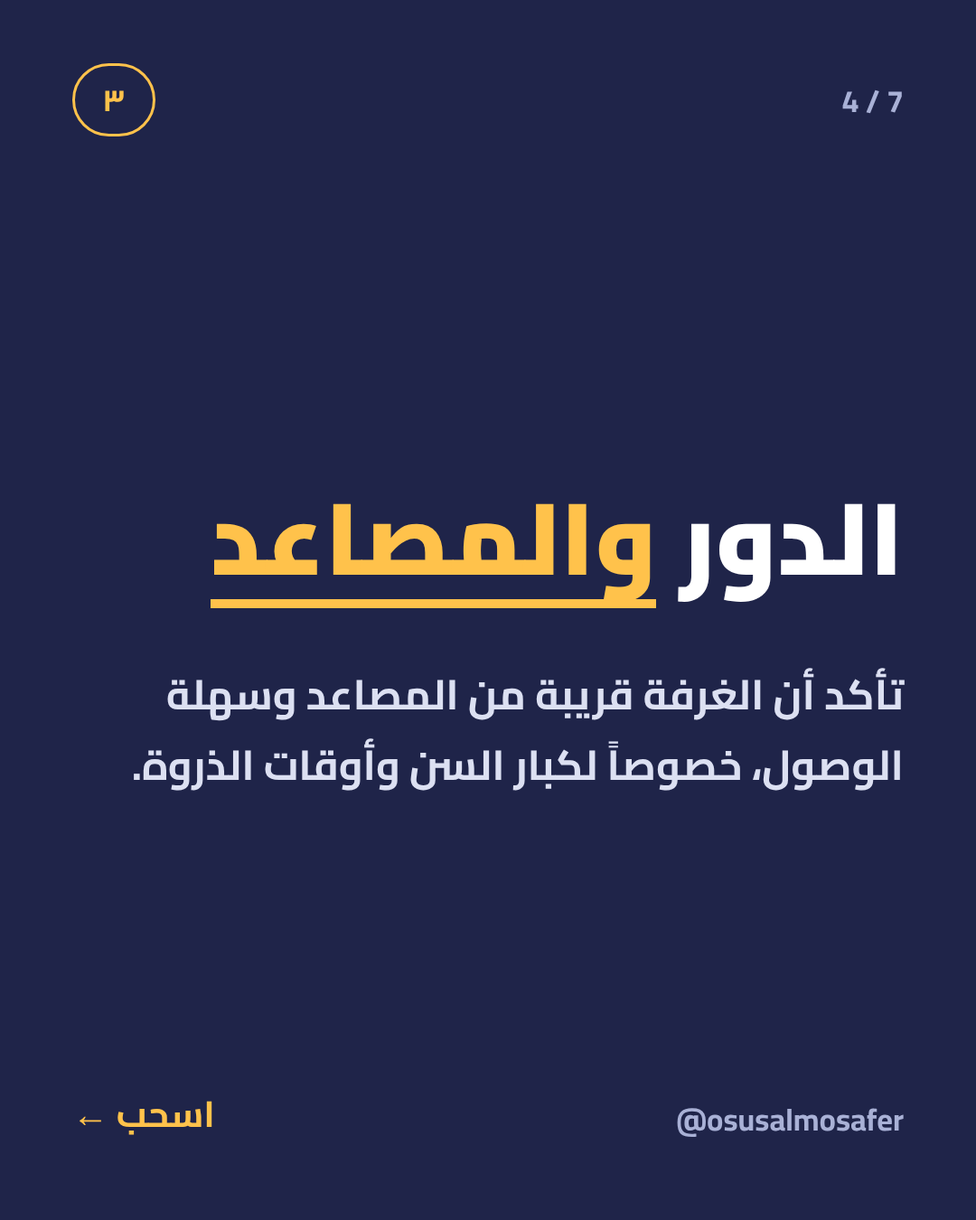
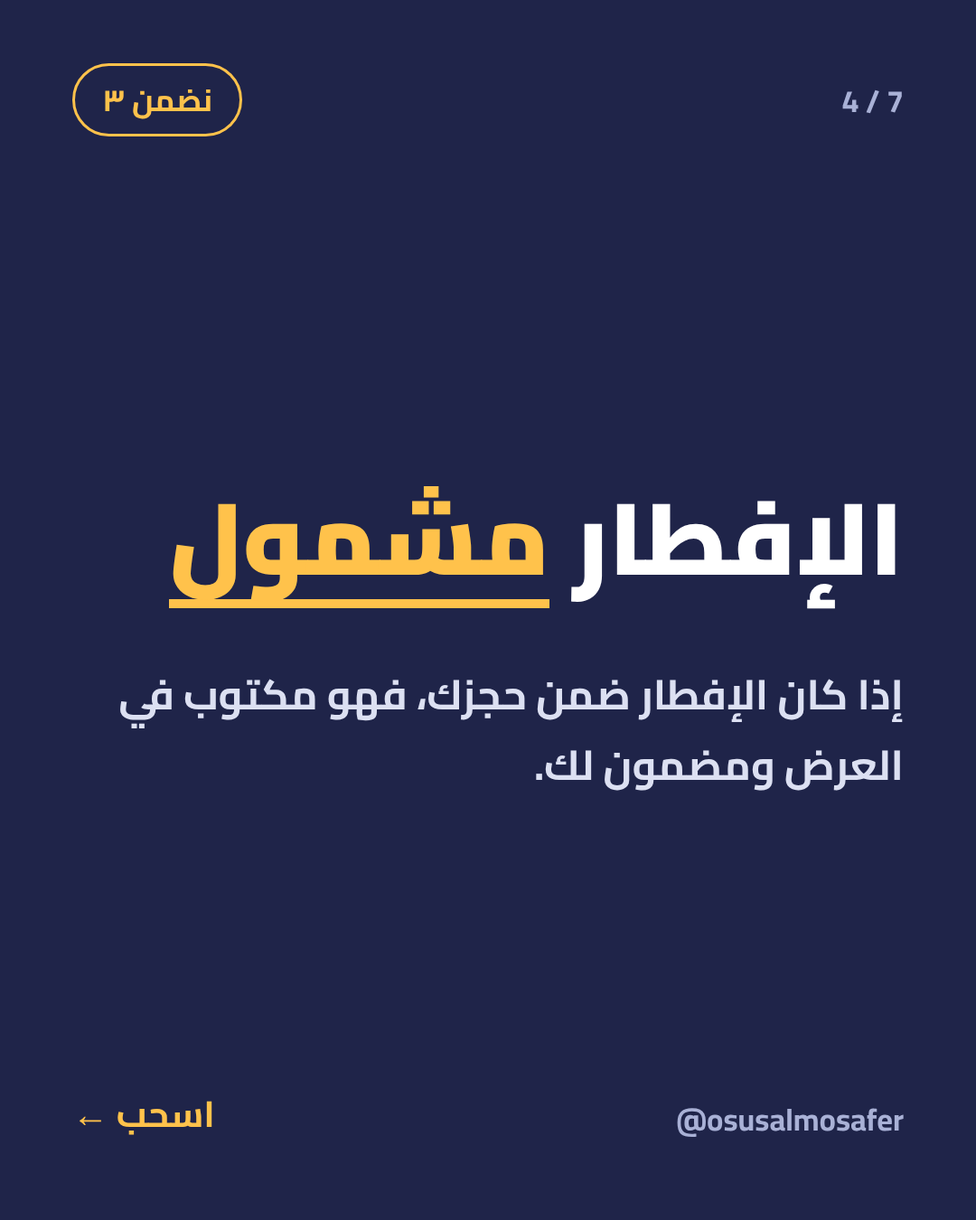
Remove bed type, cancellation, adjoining rooms and upper floors from carousels; rework sixth carousel around guarantees
Claude-Session: https://claude.ai/code/session_018nkkgV5L9WVzQYR2S6kDaX

diff --git a/carousel/carousel7.html b/carousel/carousel7.html
@@ -22,23 +22,23 @@ u{display:inline-block;white-space:nowrap;line-height:1.25;color:var(--ac);text-
 .chips{margin-top:30px;display:flex;flex-direction:column;gap:28px}.chip{border:3px solid #3A4275;border-radius:28px;padding:30px 40px}.chip b{display:block;font-size:56px;font-weight:900;color:var(--ac)}.chip span{font-size:40px;font-weight:700;color:#DCE0F2;line-height:1.5}.cover .main{top:240px}.chips-s .main{top:230px}.last .main{top:420px}
 </style></head><body><section class="slide cover " id="s1"><div class="glow"></div><div class="rings"><i></i><i></i><i></i></div>
 <div class="counter">1 / 7</div><div class="pill">حجز مكة</div>
-<div class="main"><h1>غرفة تناسب <u>عائلتك</u>؟</h1><p class="sub">٥ أشياء تنتبه لها قبل ما تختار</p></div>
+<div class="main"><h1>وش <u>نضمنه</u> لك في حجزك؟</h1><p class="sub">ما تدفعه هو اللي تحصل عليه</p></div>
 <div class="brand">@osusalmosafer</div><div class="cue">اسحب ←</div></section><section class="slide card " id="s2">
-<div class="counter">2 / 7</div><div class="pill">١</div>
-<div class="main"><h1>نوع <u>الأسرّة</u></h1><p class="body">اسأل: أسرّة منفصلة أو سرير مزدوج؟ وهل السرير الإضافي متوفر ومريح لأطفالك؟</p></div>
+<div class="counter">2 / 7</div><div class="pill">نضمن ١</div>
+<div class="main"><h1>عدد <u>الأشخاص</u></h1><p class="body">الحجز يكون لعدد الأشخاص اللي تحتاجهم فعلاً، مكتوب وواضح قبل ما تدفع.</p></div>
 <div class="brand">@osusalmosafer</div><div class="cue">اسحب ←</div></section><section class="slide card " id="s3">
-<div class="counter">3 / 7</div><div class="pill">٢</div>
-<div class="main"><h1>غرف <u>مترابطة</u></h1><p class="body">للعائلة الكبيرة، اسأل عن الغرف المترابطة أو الجناح. أفضل من غرف متفرقة في أدوار مختلفة.</p></div>
+<div class="counter">3 / 7</div><div class="pill">نضمن ٢</div>
+<div class="main"><h1>نوع <u>الغرفة</u></h1><p class="body">تحصل على نوع الغرفة اللي حجزته بالتحديد، مو وصف عام يتغير عند الوصول.</p></div>
 <div class="brand">@osusalmosafer</div><div class="cue">اسحب ←</div></section><section class="slide card " id="s4">
-<div class="counter">4 / 7</div><div class="pill">٣</div>
-<div class="main"><h1>الدور <u>والمصاعد</u></h1><p class="body">تأكد أن الغرفة قريبة من المصاعد وسهلة الوصول، خصوصاً لكبار السن وأوقات الذروة.</p></div>
+<div class="counter">4 / 7</div><div class="pill">نضمن ٣</div>
+<div class="main"><h1>الإفطار <u>مشمول</u></h1><p class="body">إذا كان الإفطار ضمن حجزك، فهو مكتوب في العرض ومضمون لك.</p></div>
 <div class="brand">@osusalmosafer</div><div class="cue">اسحب ←</div></section><section class="slide card " id="s5">
-<div class="counter">5 / 7</div><div class="pill">٤</div>
-<div class="main"><h1>الإطلالة <u>تستاهل</u>؟</h1><p class="body">الإطلالة تزيد السعر. حدد أولويتك: راحة وسعة أكبر، أو إطلالة بسعر أعلى؟</p></div>
+<div class="counter">5 / 7</div><div class="pill">نضمن ٤</div>
+<div class="main"><h1>الإطلالة <u>المحددة</u></h1><p class="body">إذا اخترت غرفة بإطلالة معينة، تحصل عليها كما هي في عرضك.</p></div>
 <div class="brand">@osusalmosafer</div><div class="cue">اسحب ←</div></section><section class="slide card " id="s6">
-<div class="counter">6 / 7</div><div class="pill">٥</div>
-<div class="main"><h1>الإفطار <u>والخدمات</u></h1><p class="body">تأكد أن الإفطار والخدمات تناسب أطفالك وكبار السن، وأوقاتها تناسب برنامجكم.</p></div>
+<div class="counter">6 / 7</div><div class="pill">نضمن ٥</div>
+<div class="main"><h1>المواصلات <u>المتوفرة</u></h1><p class="body">إذا الفندق يوفر مواصلات، نكتبها لك ضمن العرض بوضوح.</p></div>
 <div class="brand">@osusalmosafer</div><div class="cue">اسحب ←</div></section><section class="slide last " id="s7">
 <div class="counter">7 / 7</div><div class="pill">الخلاصة</div>
-<div class="main"><h1>الغرفة المناسبة <u>تريّحك</u></h1><p class="body">أرسلها لمن يجهز لرحلة مكة. وإذا تبي نرشح لك غرفة تناسب عائلتك، راسلنا.</p></div>
+<div class="main"><h1>نفس الفندق <u>ومواصفاته</u></h1><p class="body">تحجز نفس الفندق بنفس المواصفات اللي شفتها في العرض. راسلنا ونرسل لك عرضك مفصل.</p></div>
 <div class="brand">@osusalmosafer</div></section></body></html>

diff --git a/carousel/carousel3.html b/carousel/carousel3.html
@@ -24,19 +24,19 @@ u{display:inline-block;white-space:nowrap;line-height:1.25;color:var(--ac);text-
 <div class="counter">1 / 7</div><div class="pill">حجز مكة</div>
 <div class="main"><h1>تحجز فندق بمكة؟ شيّك <u>٥ أشياء</u></h1><p class="sub">قبل لا تدفع ريال واحد</p></div>
 <div class="brand">@osusalmosafer</div><div class="cue">اسحب ←</div></section><section class="slide card " id="s2">
-<div class="counter">2 / 7</div><div class="pill">١</div>
+<div class="counter">2 / 7</div><div class="pill">نصيحة ١</div>
 <div class="main"><h1>المسافة <u>الحقيقية</u></h1><p class="body">كلمة «قريب» مطاطة. اسأل كم دقيقة مشي لأقرب باب للحرم، وبدون زحام.</p></div>
 <div class="brand">@osusalmosafer</div><div class="cue">اسحب ←</div></section><section class="slide card " id="s3">
-<div class="counter">3 / 7</div><div class="pill">٢</div>
-<div class="main"><h1>طريق <u>المشي</u></h1><p class="body">تأكد أنه مريح لكبار السن والأطفال، وفيه مصاعد، وما فيه طلعات صعبة.</p></div>
+<div class="counter">3 / 7</div><div class="pill">نصيحة ٢</div>
+<div class="main"><h1>طريق <u>المشي</u></h1><p class="body">تأكد أنه مريح لكبار السن والأطفال، وما فيه طلعات صعبة.</p></div>
 <div class="brand">@osusalmosafer</div><div class="cue">اسحب ←</div></section><section class="slide card " id="s4">
-<div class="counter">4 / 7</div><div class="pill">٣</div>
-<div class="main"><h1>الغرفة <u>تكفيكم</u></h1><p class="body">تأكد من عدد الأسرّة والسعة لعدد أفراد عائلتك فعلاً، مو بس الحد الأقصى.</p></div>
+<div class="counter">4 / 7</div><div class="pill">نصيحة ٣</div>
+<div class="main"><h1>الغرفة <u>تكفيكم</u></h1><p class="body">تأكد أن عدد الأشخاص ونوع الغرفة في الحجز يناسبون عائلتك فعلاً، مو بس الحد الأقصى.</p></div>
 <div class="brand">@osusalmosafer</div><div class="cue">اسحب ←</div></section><section class="slide card " id="s5">
-<div class="counter">5 / 7</div><div class="pill">٤</div>
-<div class="main"><h1>الخدمات <u>المشمولة</u></h1><p class="body">اسأل وش يشمل السعر: الإفطار، والنقل، وخدمات الغرفة. عشان ما تدفع على شي تحسبه مجاني.</p></div>
+<div class="counter">5 / 7</div><div class="pill">نصيحة ٤</div>
+<div class="main"><h1>الخدمات <u>المشمولة</u></h1><p class="body">اسأل وش يشمل السعر: الإفطار، والمواصلات إن وفّرها الفندق. عشان ما تدفع على شي تحسبه مجاني.</p></div>
 <div class="brand">@osusalmosafer</div><div class="cue">اسحب ←</div></section><section class="slide card " id="s6">
-<div class="counter">6 / 7</div><div class="pill">٥</div>
+<div class="counter">6 / 7</div><div class="pill">نصيحة ٥</div>
 <div class="main"><h1>التقييمات <u>الأخيرة</u></h1><p class="body">اقرأ تقييمات آخر ٣ أشهر مو الأقدم، خصوصاً من ناس سافروا في نفس موسمك.</p></div>
 <div class="brand">@osusalmosafer</div><div class="cue">اسحب ←</div></section><section class="slide last " id="s7">
 <div class="counter">7 / 7</div><div class="pill">الخلاصة</div>

diff --git a/carousel/carousel4.html b/carousel/carousel4.html
@@ -37,7 +37,7 @@ u{display:inline-block;white-space:nowrap;line-height:1.25;color:var(--ac);text-
 <div class="main"><h1>تنسى <u>الرسوم</u> الإضافية</h1><p class="body">اسأل: هل السعر شامل الضريبة والرسوم؟ بعض العروض تنعرض بسعر وتنزاد عليها رسوم بعدين.</p></div>
 <div class="brand">@osusalmosafer</div><div class="cue">اسحب ←</div></section><section class="slide card " id="s6">
 <div class="counter">6 / 7</div><div class="pill">خطأ ٥</div>
-<div class="main"><h1>ما <u>تأكد</u> قبل السفر</h1><p class="body">كلّم الفندق قبل وصولك بأيام وتأكد من الحجز وموعد الدخول، عشان ما تنصدم عند الاستقبال.</p></div>
+<div class="main"><h1>ما <u>تأكد</u> قبل السفر</h1><p class="body">كلّم الفندق قبل وصولك بأيام وتأكد من الحجز، عشان ما تنصدم عند الاستقبال.</p></div>
 <div class="brand">@osusalmosafer</div><div class="cue">اسحب ←</div></section><section class="slide last " id="s7">
 <div class="counter">7 / 7</div><div class="pill">الخلاصة</div>
 <div class="main"><h1>احفظها قبل <u>حجزك</u> الجاي</h1><p class="body">أرسلها لمن يجهز لرحلة مكة. وإذا تبي نساعدك في الحجز، راسلنا.</p></div>

diff --git a/carousel/carousel6.html b/carousel/carousel6.html
@@ -34,7 +34,7 @@ u{display:inline-block;white-space:nowrap;line-height:1.25;color:var(--ac);text-
 <div class="main"><h1>كم <u>يبعد</u>؟</h1><p class="body">اسأل كم دقيقة مشي للحرم وأقرب باب، وهل فيه نقل. الكلمة «قريب» لحالها ما تكفي.</p></div>
 <div class="brand">@osusalmosafer</div><div class="cue">اسحب ←</div></section><section class="slide card " id="s5">
 <div class="counter">5 / 7</div><div class="pill">سؤال ٤</div>
-<div class="main"><h1>كم <u>الليالي</u> بالضبط؟</h1><p class="body">تأكد من تاريخ الدخول والخروج وعدد الليالي ووقت تسجيل الدخول، عشان ما تتفاجأ عند الوصول.</p></div>
+<div class="main"><h1>كم <u>الليالي</u> بالضبط؟</h1><p class="body">تأكد من تاريخ الدخول والخروج وعدد الليالي، عشان ما تتفاجأ عند الوصول.</p></div>
 <div class="brand">@osusalmosafer</div><div class="cue">اسحب ←</div></section><section class="slide card " id="s6">
 <div class="counter">6 / 7</div><div class="pill">سؤال ٥</div>
 <div class="main"><h1>متى <u>التأكيد</u>؟</h1><p class="body">اسأل متى يوصلك تأكيد الحجز، وبأي طريقة، وهل تقدر تتأكد منه مع الفندق نفسه.</p></div>

diff --git a/carousel/gen7.py b/carousel/gen7.py
@@ -1,11 +1,11 @@
 slides = [
- dict(kind="cover", label="حجز مكة", h="غرفة تناسب <u>عائلتك</u>؟", sub="٥ أشياء تنتبه لها قبل ما تختار"),
- dict(kind="card", label="١", h="نوع <u>الأسرّة</u>", body="اسأل: أسرّة منفصلة أو سرير مزدوج؟ وهل السرير الإضافي متوفر ومريح لأطفالك؟"),
- dict(kind="card", label="٢", h="غرف <u>مترابطة</u>", body="للعائلة الكبيرة، اسأل عن الغرف المترابطة أو الجناح. أفضل من غرف متفرقة في أدوار مختلفة."),
- dict(kind="card", label="٣", h="الدور <u>والمصاعد</u>", body="تأكد أن الغرفة قريبة من المصاعد وسهلة الوصول، خصوصاً لكبار السن وأوقات الذروة."),
- dict(kind="card", label="٤", h="الإطلالة <u>تستاهل</u>؟", body="الإطلالة تزيد السعر. حدد أولويتك: راحة وسعة أكبر، أو إطلالة بسعر أعلى؟"),
- dict(kind="card", label="٥", h="الإفطار <u>والخدمات</u>", body="تأكد أن الإفطار والخدمات تناسب أطفالك وكبار السن، وأوقاتها تناسب برنامجكم."),
- dict(kind="last", label="الخلاصة", h="الغرفة المناسبة <u>تريّحك</u>", body="أرسلها لمن يجهز لرحلة مكة. وإذا تبي نرشح لك غرفة تناسب عائلتك، راسلنا."),
+ dict(kind="cover", label="حجز مكة", h="وش <u>نضمنه</u> لك في حجزك؟", sub="ما تدفعه هو اللي تحصل عليه"),
+ dict(kind="card", label="نضمن ١", h="عدد <u>الأشخاص</u>", body="الحجز يكون لعدد الأشخاص اللي تحتاجهم فعلاً، مكتوب وواضح قبل ما تدفع."),
+ dict(kind="card", label="نضمن ٢", h="نوع <u>الغرفة</u>", body="تحصل على نوع الغرفة اللي حجزته بالتحديد، مو وصف عام يتغير عند الوصول."),
+ dict(kind="card", label="نضمن ٣", h="الإفطار <u>مشمول</u>", body="إذا كان الإفطار ضمن حجزك، فهو مكتوب في العرض ومضمون لك."),
+ dict(kind="card", label="نضمن ٤", h="الإطلالة <u>المحددة</u>", body="إذا اخترت غرفة بإطلالة معينة، تحصل عليها كما هي في عرضك."),
+ dict(kind="card", label="نضمن ٥", h="المواصلات <u>المتوفرة</u>", body="إذا الفندق يوفر مواصلات، نكتبها لك ضمن العرض بوضوح."),
+ dict(kind="last", label="الخلاصة", h="نفس الفندق <u>ومواصفاته</u>", body="تحجز نفس الفندق بنفس المواصفات اللي شفتها في العرض. راسلنا ونرسل لك عرضك مفصل."),
 ]
 N=len(slides)
 out=[]

diff --git a/carousel/gen3.py b/carousel/gen3.py
@@ -1,10 +1,10 @@
 slides = [
  dict(kind="cover", label="حجز مكة", h="تحجز فندق بمكة؟ شيّك <u>٥ أشياء</u>", sub="قبل لا تدفع ريال واحد"),
- dict(kind="card", label="١", h="المسافة <u>الحقيقية</u>", body="كلمة «قريب» مطاطة. اسأل كم دقيقة مشي لأقرب باب للحرم، وبدون زحام."),
- dict(kind="card", label="٢", h="طريق <u>المشي</u>", body="تأكد أنه مريح لكبار السن والأطفال، وفيه مصاعد، وما فيه طلعات صعبة."),
- dict(kind="card", label="٣", h="الغرفة <u>تكفيكم</u>", body="تأكد من عدد الأسرّة والسعة لعدد أفراد عائلتك فعلاً، مو بس الحد الأقصى."),
- dict(kind="card", label="٤", h="الخدمات <u>المشمولة</u>", body="اسأل وش يشمل السعر: الإفطار، والنقل، وخدمات الغرفة. عشان ما تدفع على شي تحسبه مجاني."),
- dict(kind="card", label="٥", h="التقييمات <u>الأخيرة</u>", body="اقرأ تقييمات آخر ٣ أشهر مو الأقدم، خصوصاً من ناس سافروا في نفس موسمك."),
+ dict(kind="card", label="نصيحة ١", h="المسافة <u>الحقيقية</u>", body="كلمة «قريب» مطاطة. اسأل كم دقيقة مشي لأقرب باب للحرم، وبدون زحام."),
+ dict(kind="card", label="نصيحة ٢", h="طريق <u>المشي</u>", body="تأكد أنه مريح لكبار السن والأطفال، وما فيه طلعات صعبة."),
+ dict(kind="card", label="نصيحة ٣", h="الغرفة <u>تكفيكم</u>", body="تأكد أن عدد الأشخاص ونوع الغرفة في الحجز يناسبون عائلتك فعلاً، مو بس الحد الأقصى."),
+ dict(kind="card", label="نصيحة ٤", h="الخدمات <u>المشمولة</u>", body="اسأل وش يشمل السعر: الإفطار، والمواصلات إن وفّرها الفندق. عشان ما تدفع على شي تحسبه مجاني."),
+ dict(kind="card", label="نصيحة ٥", h="التقييمات <u>الأخيرة</u>", body="اقرأ تقييمات آخر ٣ أشهر مو الأقدم، خصوصاً من ناس سافروا في نفس موسمك."),
  dict(kind="last", label="الخلاصة", h="احفظها قبل <u>حجزك</u> الجاي", body="أرسلها لمن يجهز لرحلة مكة. وإذا تبي نساعدك في اختيار الفندق، راسلنا."),
 ]
 N=len(slides)

diff --git a/carousel/gen6.py b/carousel/gen6.py
@@ -3,7 +3,7 @@ slides = [
  dict(kind="card", label="سؤال ١", h="السعر <u>شامل</u>؟", body="اسأل: هل السعر شامل الضريبة والرسوم؟ وش اللي ما يدخل فيه؟"),
  dict(kind="card", label="سؤال ٢", h="أي <u>فندق</u> بالضبط؟", body="اطلب اسم الفندق ونوع الغرفة بالتحديد، مو وصف عام. عشان تقارن العروض بنفس الأساس."),
  dict(kind="card", label="سؤال ٣", h="كم <u>يبعد</u>؟", body="اسأل كم دقيقة مشي للحرم وأقرب باب، وهل فيه نقل. الكلمة «قريب» لحالها ما تكفي."),
- dict(kind="card", label="سؤال ٤", h="كم <u>الليالي</u> بالضبط؟", body="تأكد من تاريخ الدخول والخروج وعدد الليالي ووقت تسجيل الدخول، عشان ما تتفاجأ عند الوصول."),
+ dict(kind="card", label="سؤال ٤", h="كم <u>الليالي</u> بالضبط؟", body="تأكد من تاريخ الدخول والخروج وعدد الليالي، عشان ما تتفاجأ عند الوصول."),
  dict(kind="card", label="سؤال ٥", h="متى <u>التأكيد</u>؟", body="اسأل متى يوصلك تأكيد الحجز، وبأي طريقة، وهل تقدر تتأكد منه مع الفندق نفسه."),
  dict(kind="last", label="الخلاصة", h="احفظ الأسئلة <u>قبل</u> الدفع", body="أرسلها لمن يجهز لرحلة مكة. وإذا تبي نجاوبك بكل وضوح، راسلنا."),
 ]

diff --git a/carousel/gen4.py b/carousel/gen4.py
@@ -4,7 +4,7 @@ slides = [
  dict(kind="card", label="خطأ ٢", h="تقارن <u>السعر</u> فقط", body="قارن معه الشروط: الإفطار، والمسافة، ونوع الغرفة. سعر أقل بشروط أضعف مو توفير."),
  dict(kind="card", label="خطأ ٣", h="تدفع بدون <u>إثبات</u>", body="تأكد أن الوكالة مرخصة، واطلب إثبات حجز باسمك، وتأكد من رقم التأكيد مع الفندق نفسه."),
  dict(kind="card", label="خطأ ٤", h="تنسى <u>الرسوم</u> الإضافية", body="اسأل: هل السعر شامل الضريبة والرسوم؟ بعض العروض تنعرض بسعر وتنزاد عليها رسوم بعدين."),
- dict(kind="card", label="خطأ ٥", h="ما <u>تأكد</u> قبل السفر", body="كلّم الفندق قبل وصولك بأيام وتأكد من الحجز وموعد الدخول، عشان ما تنصدم عند الاستقبال."),
+ dict(kind="card", label="خطأ ٥", h="ما <u>تأكد</u> قبل السفر", body="كلّم الفندق قبل وصولك بأيام وتأكد من الحجز، عشان ما تنصدم عند الاستقبال."),
  dict(kind="last", label="الخلاصة", h="احفظها قبل <u>حجزك</u> الجاي", body="أرسلها لمن يجهز لرحلة مكة. وإذا تبي نساعدك في الحجز، راسلنا."),
 ]
 N=len(slides)
